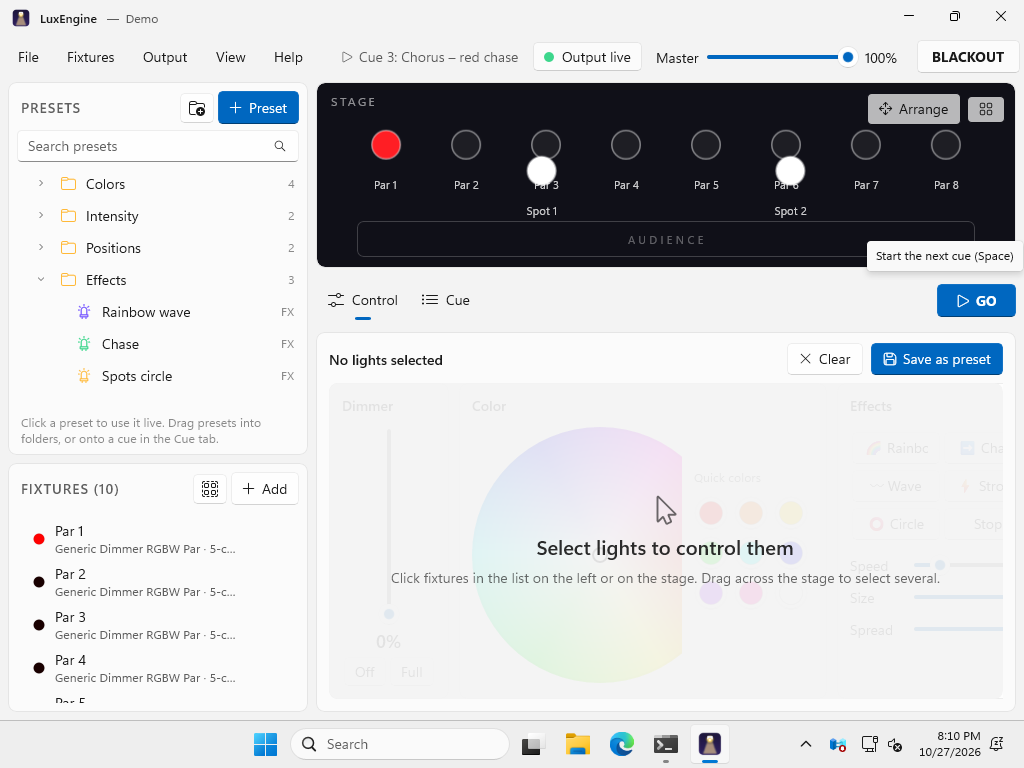
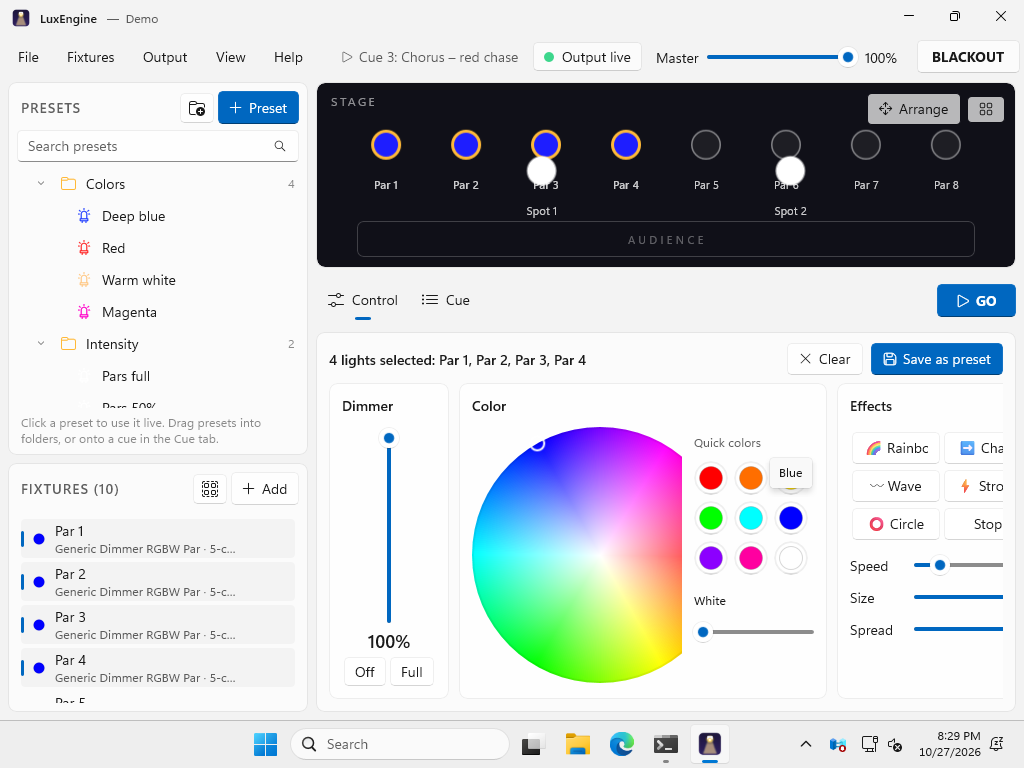
README screenshots
Claude-Session: https://claude.ai/code/session_01QbYSD5WMLFthYdXG8Zf3in

diff --git a/README.md b/README.md
@@ -13,6 +13,10 @@
   <a href="https://github.com/vothalvino/LuxEngine/releases/latest"><b>⬇ Download LuxEngine for Windows</b></a>
 </p>
 
+<p align="center">
+  <img src="docs/screenshots/cues.png" width="800" alt="LuxEngine cue list: each cue combines several presets" />
+</p>
+
 ---
 
 ## Features
@@ -26,6 +30,14 @@
 - **Outputs.** Art-Net, sACN (E1.31), Enttec DMX USB Pro and Open DMX USB, with as many universes as you need.
 - **External control.** MIDI controllers (learn mode) and sound-to-light from music playing on the PC or a microphone.
 - **Safe for live use.** Blackout, master fader, autosave with crash recovery, and keeps Windows awake during a show.
+
+## Screenshots
+
+| Live control | Fixture library |
+|---|---|
+| ![Control tab with four pars set to blue](docs/screenshots/control.png) | ![Searching the built-in fixture library](docs/screenshots/fixture-library.png) |
+
+These screenshots are taken automatically by the CI smoke test on Windows, using the bundled demo show (*Help → Open demo show*).
 
 ## Install
 
